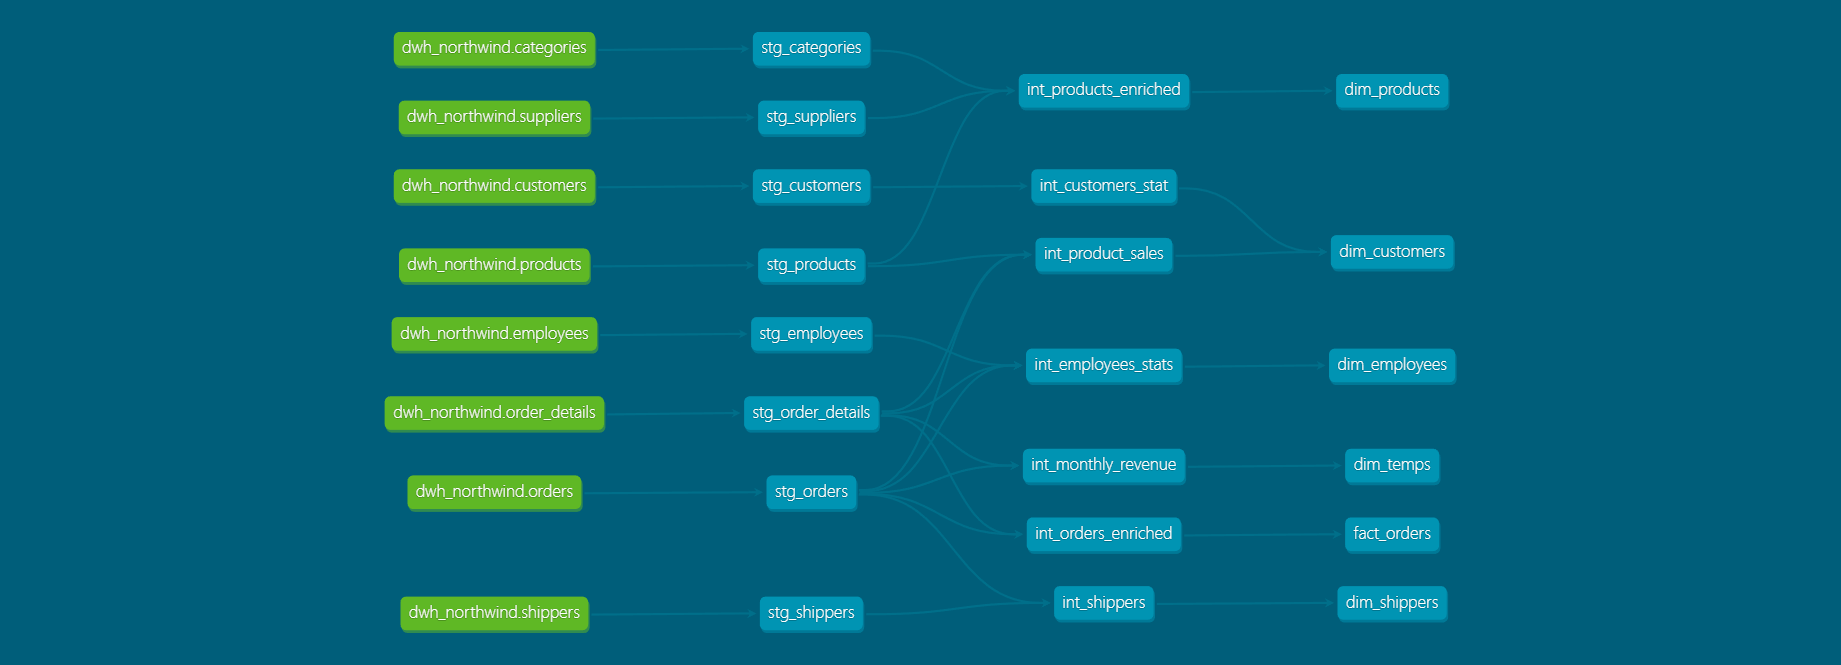
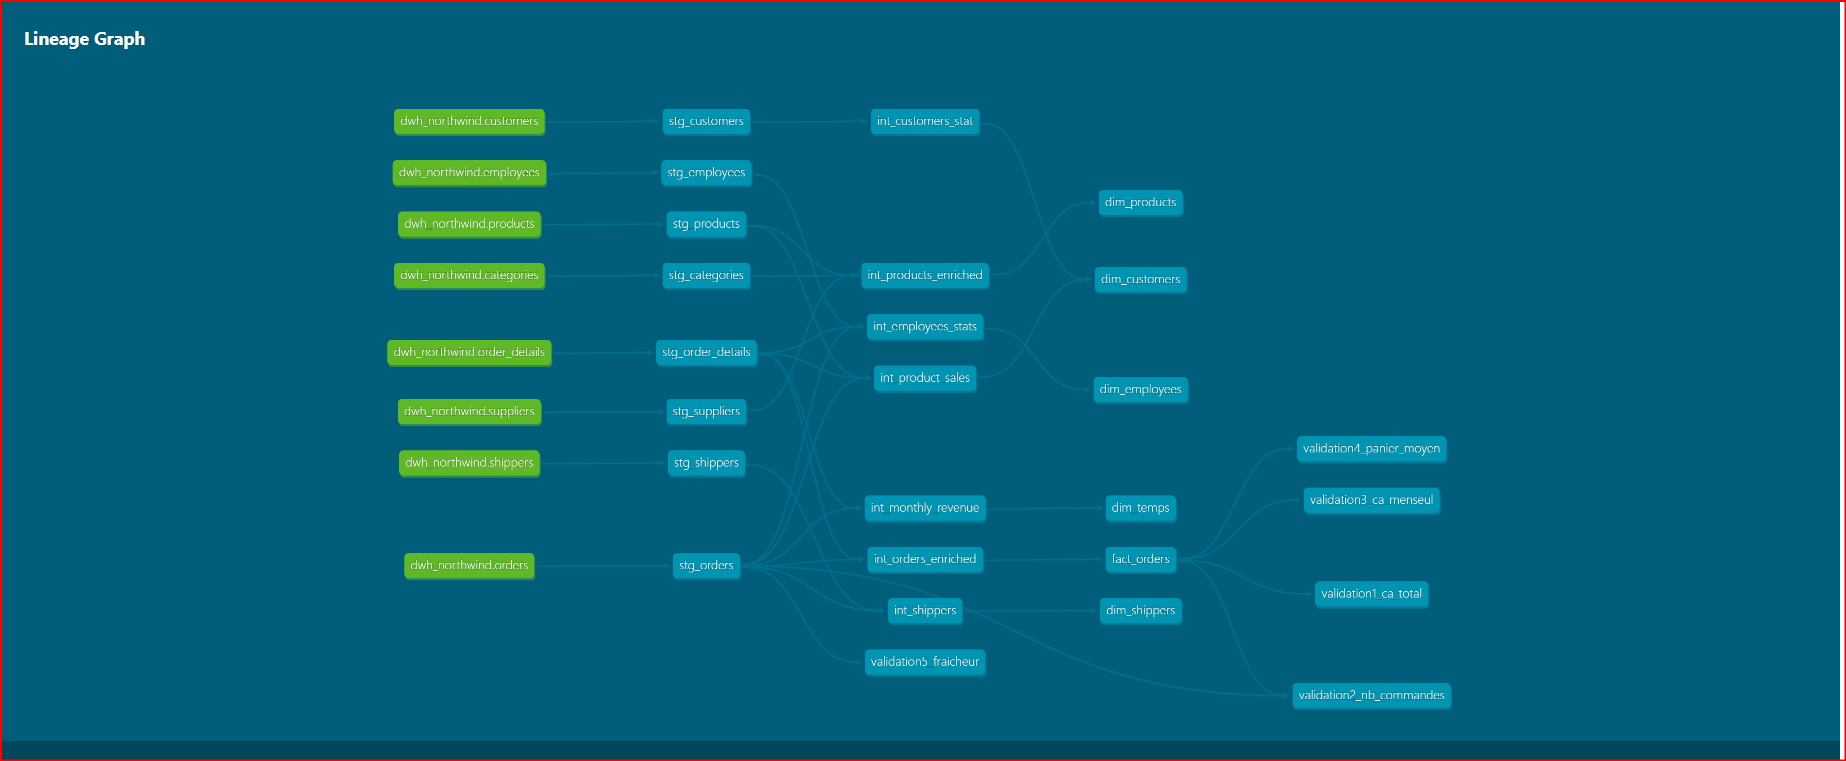
major updates on readme file, admin user, macros and tests

diff --git a/README.md b/README.md
@@ -1,18 +1,205 @@
-Welcome to your new dbt project!
+Welcome to DBT project
 
-### Using the starter project
+# 📦 dwh_northwind  
+### **Analytical Data Warehouse built from the Northwind OLTP database using dbt + PostgreSQL**
 
-Try running the following commands:
-- dbt run
-- dbt test
-- dbt run generate
-- dbt run serve
+This project implements a complete **modern data warehouse** using:
 
+- **dbt (Data Build Tool)** for transformation, testing, documentation  
+- **PostgreSQL** as the analytical warehouse  
+- **Northwind OLTP** as the source system  
+- A clean **staging → intermediate → marts** architecture  
+- Automated **schema grants** via dbt hooks  
+- Full **documentation** and **lineage graph** via `dbt docs`
 
-### Resources:
-- Learn more about dbt [in the docs](https://docs.getdbt.com/docs/introduction)
-- Check out [Discourse](https://discourse.getdbt.com/) for commonly asked questions and answers
-- Join the [chat](https://community.getdbt.com/) on Slack for live discussions and support
-- Find [dbt events](https://events.getdbt.com) near you
-- Check out [the blog](https://blog.getdbt.com/) for the latest news on dbt's development and best practices
-# northwind_project
+The goal is to demonstrate best practices in **data modeling**, **ELT pipelines**, **data quality**, and **analytics engineering**.
+
+---
+
+## 🏗 Project Architecture
+
+The project follows a classic **layered DWH architecture**:
+
+```
+Northwind OLTP
+      ↓
+Staging (stg_)
+      ↓
+Intermediate (int_)
+      ↓
+Marts (dim_ / fact_)
+```
+
+### **1. Staging Layer (`models/staging/`)**
+- One model per source table  
+- Light transformations  
+- Column renaming  
+- Type normalization  
+- Surrogate keys when needed  
+
+### **2. Intermediate Layer (`models/intermediate/`)**
+- Business logic  
+- Joins  
+- Enrichments  
+- Deduplication  
+- Pre‑aggregation  
+
+### **3. Marts Layer (`models/marts/`)**
+- Star schema  
+- Dimensions: `dim_customers`, `dim_employees`, `dim_products`, `dim_shippers`, `dim_temps`  
+- Fact table: `fact_orders`  
+- Optimized for BI tools and analytics  
+
+---
+
+## 🗂 Repository Structure
+
+```
+dwh_northwind/
+│
+├── models/
+│   ├── staging/
+│   ├── intermediate/
+│   └── marts/
+│
+├── macros/
+│
+├── tests/
+│
+├── analyses/
+│
+├── seeds/
+│
+├── snapshots/
+│
+└── dbt_project.yml
+```
+
+---
+
+## ⚙ dbt Configuration Highlights
+
+### **Materialization Strategy**
+- `staging`: **view**
+- `intermediate`: **view**
+- `marts`: **table**
+
+### **Post‑run Grants (Security Layer)**  
+Automatically applied after each dbt run:
+
+```yaml
+models:
+  on_run_end:
+    - "GRANT USAGE ON SCHEMA {{ target.schema }} TO dwh_northwind_readonly"
+    - "GRANT SELECT ON ALL TABLES IN SCHEMA {{ target.schema }} TO dwh_northwind_readonly"
+    - "GRANT USAGE ON SCHEMA {{ target.schema }} TO DWH_dbt_project"
+    - "GRANT SELECT ON ALL TABLES IN SCHEMA {{ target.schema }} TO DWH_dbt_project"
+```
+
+This ensures **read‑only access** for BI users and **full access** for the dbt service role.
+
+---
+
+## 🔍 Data Quality & Testing
+
+The project uses dbt tests:
+
+- **Uniqueness tests** on primary keys  
+- **Not null tests** on key business fields  
+- **Relationship tests** between fact and dimensions  
+- **Custom tests** when needed  
+
+Example:
+
+```yaml
+columns:
+  - name: customer_id
+    tests:
+      - not_null
+      - unique
+```
+
+---
+
+## 📊 Documentation & Lineage
+
+Generate documentation:
+
+```
+dbt docs generate
+```
+
+Serve documentation locally:
+
+```
+dbt docs serve
+```
+
+This provides:
+
+- Column descriptions  
+- Model documentation  
+- Tests  
+- Lineage graph  
+- DAG visualization  
+
+---
+
+## 🚀 How to Run the Project
+
+### **1. Create virtual environment**
+```
+python -m venv venv
+source venv/bin/activate   # macOS/Linux
+venv\Scripts\activate      # Windows
+```
+
+### **2. Install dependencies**
+```
+pip install dbt-postgres
+```
+
+### **3. Configure your `profiles.yml`**
+Example:
+
+```yaml
+DWH_dbt_project:
+  target: dev
+  outputs:
+    dev:
+      type: postgres
+      host: localhost
+      user: postgres
+      password: zawl
+      dbname: northwind_dwh
+      schema: analytics
+      threads: 4
+```
+
+### **4. Run dbt**
+```
+dbt debug
+dbt run
+dbt test
+dbt docs serve
+```
+
+---
+
+## 📈 Final Deliverables
+
+- Fully functional **analytical DWH**  
+- Clean **star schema**  
+- Automated **grants**  
+- Complete **documentation**  
+- Reusable **macros**  
+- Strong **data quality tests**  
+- Professional **project structure**  
+
+---
+
+## 👤 Author
+
+**Tesfabirhan Redie**  
+Data Engineer & Analytics Engineer  
+Bourg‑en‑Bresse, France  
